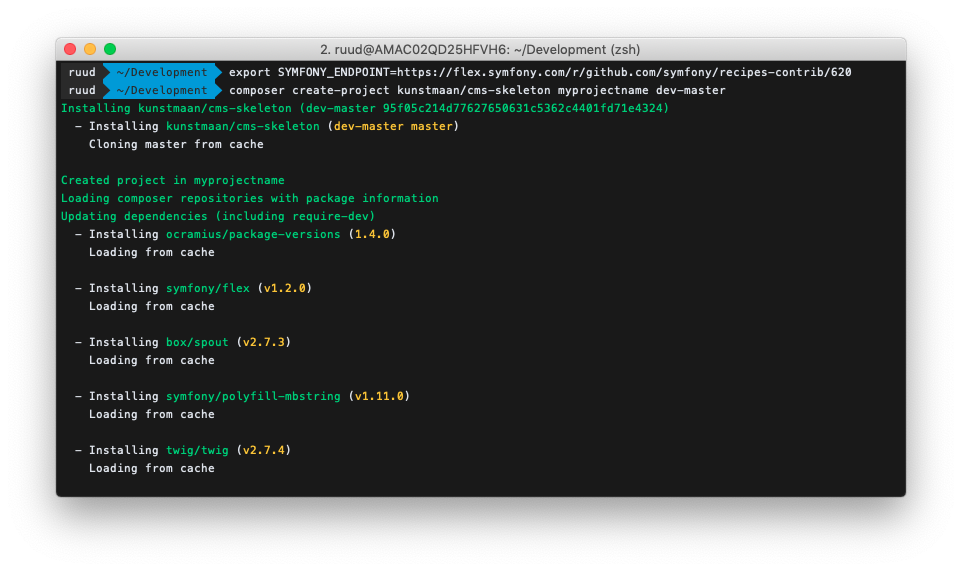
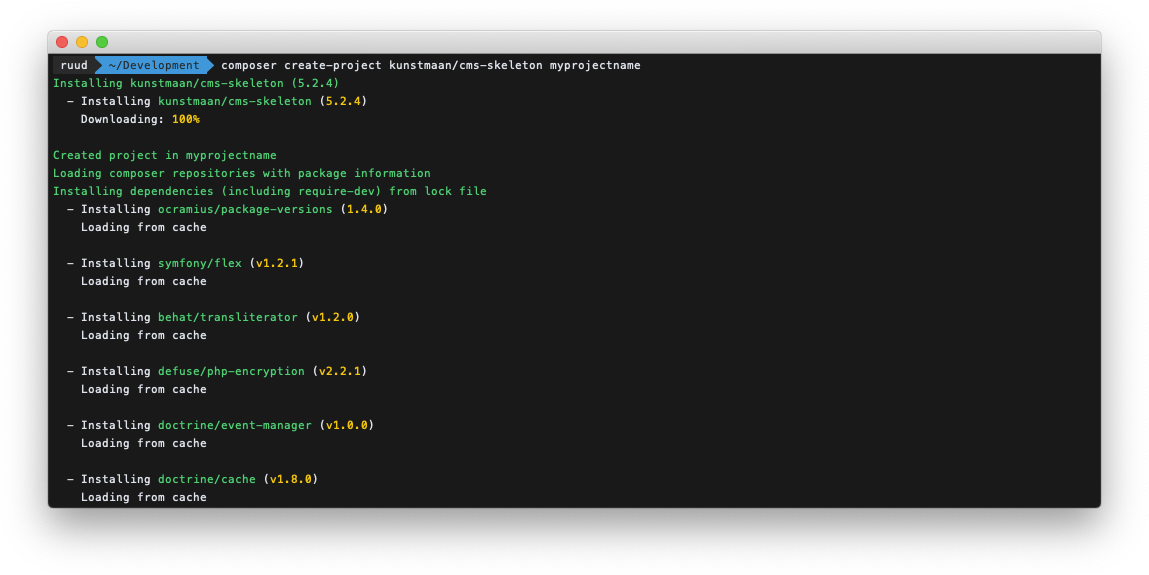
completed new install docs

Changed region(s): [[0.0312, 0.0595, 0.9667, 0.9229]]

diff --git a/docs/installation/index.md b/docs/installation/index.md
@@ -1,18 +1,15 @@
 # Installation with KunstmaanCMS Skeleton
 
-Installation with our Standard Edition is deprecated. [The old way: Standard Edition](./standard-edition.md)
+Installation with our Standard Edition is deprecated. If you still need this documentation you can find it at [The old way: Standard Edition](./standard-edition.md)
 
 ## Create your project with KunstmaanCMS Skeleton
 
-Since Symfony 4 we do not use a Standard Edition anymore, instead we created our own skeleton (based upon the website-skeleton from Syfmony). We have Flex recipes for all of our bundles so installation will be a breeze.
+Since Symfony 4 we do not use a Standard Edition anymore, instead we created our own skeleton (based upon the website-skeleton from Symfony). We have Flex recipes for all of our bundles so installation will be a breeze.
 The first step to create your new KunstmaanCMS project is the following: 
 
-```sh
-export SYMFONY_ENDPOINT=https://flex.symfony.com/r/github.com/symfony/recipes-contrib/620 
-composer create-project kunstmaan/cms-skeleton myprojectname dev-master
+```bash
+composer create-project kunstmaan/cms-skeleton myprojectname
 ```
-> Sidenote: Our recipes are still under review. Until they are merged into the master of the `symfony/recipes-contrib` repository we need to manually set the flex endpoint to our PR
-
  
 ![composer skeleton](../images/composer-skeleton.png)
 
@@ -29,7 +26,7 @@ Create a new repository (in most cases a private one). Don't add any files from 
 
 Then execute these commands in your project directory to initialise the git repository, in this example `~/Development/myprojectname/`
 
-```
+```bash
 git init
 git add .
 git commit -m "Clean install of the KunstmaanCMS"
@@ -50,4 +47,103 @@ bin/console kuma:install
 > You might run into some issues if don't have the imagick extension installed. Make sure you have the necessary software installed as stated in our [system requirements](./system-requirements.md)
 
  
+
+This command will ask you a few questions and than it will run the following commands as subcommands. This list is just for clarity of what is happening and in what order it needs to be executed. That way if you want to do this manually and not use the installer, this is your reference as to how you need to proceed.
+
+```bash
+bin/console kuma:generate:bundle #Only do this for Symfony 3.x
+bin/console kuma:generate:config #Only do this for Symfony 4.x
+bin/console kuma:generate:default-site
+bin/console doctrine:database:create
+bin/console doctrine:schema:drop
+bin/console doctrine:schema:create
+bin/console doctrine:fixtures:load
+bin/console assets:install
+bin/console kuma:generate:admin-tests
+```
+
+![installer start](../images/installer-start.png)
+
+For this installation we will install a demo site and also install the tests for the generated pages and pageparts. As you can see, the defaults for these options are set to `no`. For most use cases that will be the default and thus you can just hit `enter`.
+
+## Config generator
+
+Next we will enter the `Kunstmaan config generator`. It will ask you if you want to overwrite the default configuration for:
+
+* Security: `config/packages/security.yaml`
+* Liip Imagine: `config/packages/liip_imagine.yaml`
+* Fos Http Cache: `config/packages/prod/fos_http_cache.yaml`
+
+We suggest that you overwrite it during a new installation, but if you are upgrading you also can choose not to overwrite and then it wil generate a `package-name.yaml.example` file. You can then do a manual comparison of the existing file and the newly created example and make the necessary changes. For now, we just stick with the defaults. 
+
+![installer start](../images/config-generator.png)
+
+## Default site generator
+
+Next up is the `Kunstmaan default site generator`. 
+
+This generator is the base of the whole installation. If you are attempting to do a manual installation you will have to execute this generator. Without it you will have a hard time to get started with the CMS as it generates some important parts you absolutely need.
+
+To start it will ask you for a tablename `prefix`. The default is `app_` which is fine for most but if you want you can change it. You will see the prefix in the generated pages/pageparts on the `@ORM\Table(name="app_home_pages")` annotation.
+
+Next question is to which url the `BrowserSync` should be pointed at. This is part of the frontend workflow that will be generated. 
+
+After that it will start the generation of all the necessary files. Here is a summary of what it contains:
+ 
+* A barebones selection of pages, pageparts, adminlists, controllers, twig files, config files, etc
+* A Groundcontrol configuration ~ gulpfile.babel.js. Groundcontrol is a build tool based on [gulp](http://gulpjs.com) to automate and enhance mostly front-end development workflows
+* A basic selection of user interface elements, sass files, etc
+* The needed fixtures to setup the CMS
+
+![installer start](../images/site-generator.png)
+
+> Since we answered `yes` to the question `demosite`, the subcommand will be run with the option `--demosite`. This will result in a replica of our [demo site](http://demo.bundles.kunstmaan.be).
+
+## Initialising the database
+
+When this is done, the installer will start with the creation of the database schema and load all the generated fixtures to fill it. When the fixtures command is executed, it will ask to purge the database. You can just answer `y` and continue.
+
+![database setup](../images/database-setup.png)
+
+## Assets install
+
+When the database has been setup we will run the assets install command. This will output the compiled assets for the admin section of the KunstmaanCMS. If you want add some extra js to the compiled javascript you can do so as stated in the freshly generated `assets/admin/js/admin-bundle-extra.js` file.
+
+> Adding extra css/js to the admin section is a default feature in the KunstmaanCMS frontend setup. If you are not using this setup you will need to implement this logic yourself.
+
+## Admin tests generator
+
+Because at the beginning of the installer we said that we would like to install the admin tests, these will be generated as a last step in the installation procedure. These tests are a set of Unit and Behat test features that test that your site is working correctly. It will test logging in to the administration interface, it will create a page and tries to enter every pagepart. Most generators will generate extra features when you add features later on in development.
+
+## Install finished, what now?
+
+![install finished](../images/install_finished.png)
+
+Now the install is finished you should be able to browse to the website on the environment of your choice, and be greeted with the following screens. 
+
+![install finished](../images/kunstmaancms.png)
+
+> Note: this was generated with the option `--demosite`. If you do the install without the demosite you will end up with a empty `HomePage`
+
+
+## KunstmaanCMS Frontend workflow
+
+First make sure you installed [node.js](https://node.js.org/) v10 (or higher).
+You can test your node version by running `node -v`.
+> You can use the [nvm](https://github.com/creationix/nvm) to use correct node version. Use the `nvm install` command.
+
+During the install procedure a `buildUI.sh` script has been generated in the root of your project. When you execute that script it will start building the frontend assets using these steps:
+
+```bash
+nvm use
+npm install
+npm run build
+```
+> Checkout the script as to what it does exactly and make changes as you see fit.
+
+![npm run build](../images/buildui.png)
+
+Once that has finished and you browse to the website on the environment of your choice should show you the website with minimalistic/demo styling.
+
+![demosite](../images/demosite.png)
 
